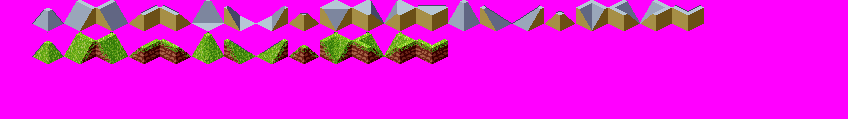
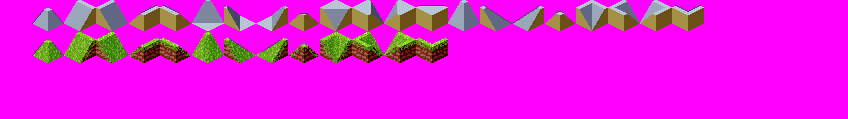
Ramptops being drawn. Cleaned up some ramps glitches, too
git-svn-id: http://stonesense.googlecode.com/svn/trunk@219 4d48de78-bd66-11de-9616-7b1d4728551e

Changed region(s): [[0.0307, 0.2773, 0.5519, 0.5294]]

diff --git a/Block.cpp b/Block.cpp
@@ -170,7 +170,34 @@ void Block::Draw(BITMAP* target){
   }
 }
 
+void Block::DrawRamptops(BITMAP* target){
+	if (ramp.type > 0)
+	{
+	
+	int sheetOffsetX, sheetOffsetY;
+  if(config.hide_outer_blocks){
+    if(x == ownerSegment->x || x == ownerSegment->x + ownerSegment->sizex - 1) return;
+    if(y == ownerSegment->y || y == ownerSegment->y + ownerSegment->sizey - 1) return;
+  }
 
+	int32_t drawx = x;
+	int32_t drawy = y;
+  	int32_t drawz = z+1; //- ownerSegment->sizez + 1;
+
+	correctBlockForSegmetOffset( drawx, drawy, drawz);
+  	correctBlockForRotation( drawx, drawy, drawz);
+	drawx *= TILEWIDTH;
+	drawy *= TILEWIDTH;
+	pointToScreen((int*)&drawx, (int*)&drawy, drawz * BLOCKHEIGHT);
+	drawx -= TILEWIDTH>>1;
+
+    sheetOffsetX = SPRITEWIDTH * ramp.index;
+    sheetOffsetY = (TILEHEIGHT + FLOORHEIGHT) * GetRampMaterialTypeMap(ramp.type);
+
+		masked_blit(IMGRamptopSheet, target, sheetOffsetX,sheetOffsetY, drawx,drawy, SPRITEWIDTH, TILEHEIGHT + FLOORHEIGHT);	
+		
+	}
+}
 
 bool hasWall(Block* b){
   if(!b) return false;

diff --git a/WorldSegment.cpp b/WorldSegment.cpp
@@ -152,6 +152,14 @@ void WorldSegment::drawAllBlocks(BITMAP* target){
     for(int32_t vsx=0; vsx < vsxmax; vsx++){
         for(int32_t vsy=0; vsy < vsymax; vsy++){
               Block *b = getBlockLocal(vsx,vsy,vsz);
+				if (b==NULL || (b->floorType == 0 && b->ramp.type == 0 && b->wallType == 0))
+				{
+				    Block* bLow = getBlockLocal(vsx,vsy,vsz-1);
+				    if (bLow != NULL)
+				    {
+						bLow->DrawRamptops(target);
+					}
+				}
               if (b)
               {
                   b->Draw(target);

diff --git a/GUI.h b/GUI.h
@@ -28,5 +28,6 @@ extern BITMAP* IMGFloorSheet;
 extern BITMAP* IMGObjectSheet; 
 extern BITMAP* IMGCreatureSheet; 
 extern BITMAP* IMGRampSheet; 
+extern BITMAP* IMGRamptopSheet; 
 
 extern Crd2D debugCursor;

diff --git a/Block.h b/Block.h
@@ -41,7 +41,8 @@ public:
 		return (floorType || wallType) != 0;
 	}
 	void Draw(BITMAP* target);
-
+	void DrawRamptops(BITMAP* target);
+	
 private:
 
 };
